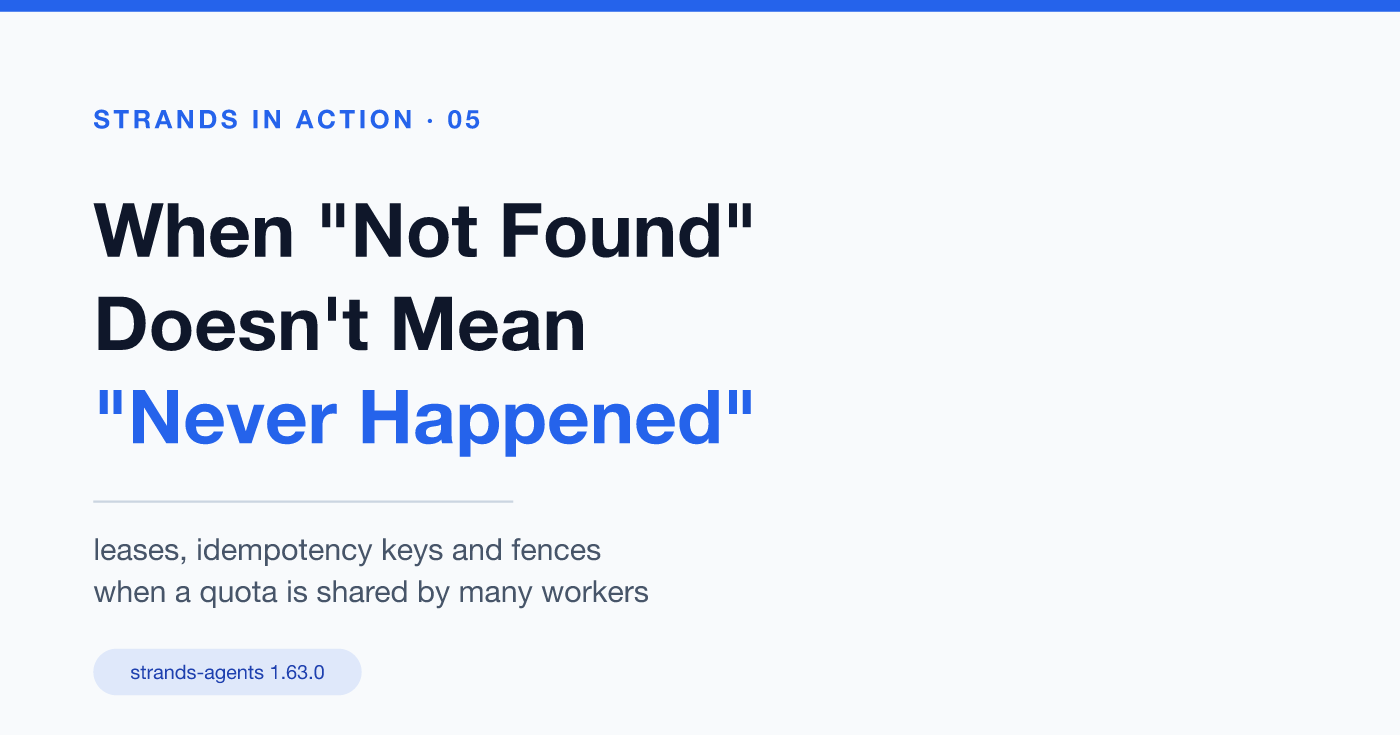
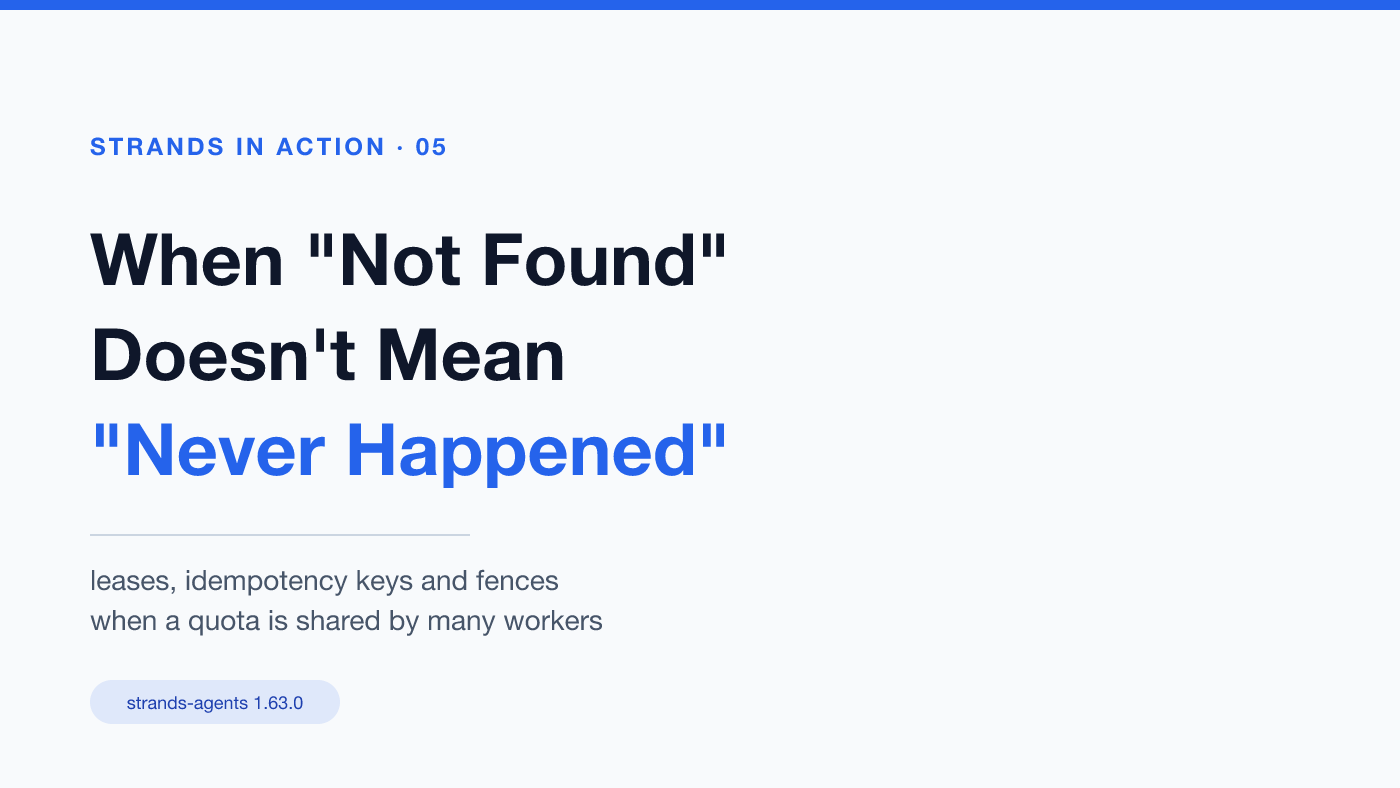
content(uc05): add Medium manual, Slack copy and 16:9 feature image
- reservations-fencing-medium-manual.md: 7-step manual, 4 subtitle options with verified character counts (136/131/131/69), 16:9 cover path, canonical checklist
- reservations-fencing-slack.md: standard + short versions with evidence citations
- cover-medium.svg / cover-medium.png: rebuilt at 1400x788 (16:9) instead of 1400x735; source SVG kept

diff --git a/writing-lab/distribution/reservations-fencing-medium-manual.md b/writing-lab/distribution/reservations-fencing-medium-manual.md
@@ -1,0 +1,111 @@
+# Medium 发布手册 · UC05 · When "Not Found" Doesn't Mean "Never Happened"
+
+> 系列：strands-in-action 第 5 篇 ｜ 状态：主站 / Builder Center / Dev.to 已上线（2026-11-09 21:30 窗口），Medium 待手动 Import
+> 日期：2026-11-10
+
+**线上地址**
+
+| 渠道 | 链接 |
+|---|---|
+| 主站（canonical） | https://xiongpin.dev/posts/reservations-fencing/ |
+| AWS Builder Center | https://builder.aws.com/content/3Ls8Su63RbuSKR3yys1j9t6US1p/when-not-found-doesnt-mean-never-happened |
+| Dev.to | https://dev.to/aws-builders/when-not-found-doesnt-mean-never-happened-2eie |
+| Medium | `<MEDIUM_URL>` — 发布后回填本行与 `reservations-fencing-slack.md` |
+
+Medium 只能手动操作，约 5 分钟。按下面 7 步走。
+
+---
+
+## 第 1 步：Import（从 canonical 导入）
+
+打开 <https://medium.com/p/import> → 粘贴 `https://xiongpin.dev/posts/reservations-fencing/` → Import。
+
+导入结果一定是一篇 draft，不会自动发布。Import 会带过来标题、正文、1 张正文图和 16 个代码块，**但 subtitle 永远是空的，必须手填**。
+
+---
+
+## 第 2 步：Title 与 Subtitle（本手册重点）
+
+**Title（导入后应已是这个，核对即可）**
+
+```text
+When "Not Found" Doesn't Mean "Never Happened"
+```
+
+**Subtitle：手填，从下面 4 个里选一个（字符数已逐条数过，全部 ≤ 140 上限）**
+
+| 选项 | 字符数 | 副标题 |
+|---|---|---|
+| **① 推荐** | **136** | `The janitor released capacity at 1.003s. The retry committed at 1.407s. The old attempt landed at 2.405s. Five runs, five double writes.` |
+| ② 讲语义 | 131 | `A lease expiry proves only that a worker stopped reporting. In five real-clock runs, "not found" turned into two writes every time.` |
+| ③ 讲修复 | 131 | `Splitting "expired" into "confirmed existing" and "outcome_unknown" stopped every duplicate write. Here are the runs that show why.` |
+| ④ 最紧凑 | 69 | `Five runs. Five duplicate writes. One missing state: outcome_unknown.` |
+
+**为什么推荐 ①**
+
+- **三个时间戳直接排出因果**：1.003s 释放容量 → 1.407s 重试提交 → 2.405s 旧 attempt 才落地。读者不用读正文就知道「查不到」为什么会变成两次写；这是全文最硬的一组实测数字。
+- **结尾给出次数**（five runs, five double writes），把反差坐实成可复现的结果，而不是一个假设的竞态。
+- **不重复标题原话**，也不含 `outcome_unknown` 这类内部术语，Medium 列表页读者无需前置知识。
+- 136 字符贴着 140 上限，移动端一般不截断；若你担心被截，改用 ④（69 字符）。
+
+② 把结论前置，适合想强调「lease 到底证明了什么」的读者，但没有具体时间线，冲击力弱一点。③ 直接剧透解法（`outcome_unknown`），会把「先看到失败、再找状态」的阅读张力抹掉；只在你想吸引已经踩过坑的工程师时用。④ 最安全、最不容易截断，但数字太干，少了那 2.4 秒的荒谬感。
+
+**操作**：在 Medium 编辑器里，标题下方灰色的 "Write a subtitle..." 处粘贴所选文本（切勿粘成正文段落，否则不会样式化为副标题）。
+
+---
+
+## 第 3 步：Byline 首行
+
+正文第一行（Import 一般不会自动加，需手写）：
+
+```text
+Originally published at https://xiongpin.dev/posts/reservations-fencing/ on 2026-11-09.
+```
+
+把 `https://xiongpin.dev/posts/reservations-fencing/` 选中做成超链接，指向自身。
+
+---
+
+## 第 4 步：封面图
+
+上传：`pinxiong.github.io/static/images/reservations-fencing/cover-medium.png`（**1400×788，16:9**，源 SVG 同目录 `cover-medium.svg`）。
+
+上传后在 Medium 的 "Change thumbnail" 里确认显示的是整张图、三行标题文字没被裁掉。
+
+> **注意**：BC 线上 2026-11-09 上传的是当时的 1400×735（1.90:1）版本，已在平台上正常显示、不会自动更新。本地 `cover-medium.png` 已于 2026-11-10 重做成 16:9；**Medium 用这个新文件即可，不必回 BC 重传**。
+
+---
+
+## 第 5 步：标签（5 个，与前两篇同口径）
+
+```text
+AI · Agents · AWS · Strands · Software Engineering
+```
+
+Medium 最多 5 个，按上面顺序填，前两个权重最高。
+
+---
+
+## 第 6 步：正文核对清单（逐项过）
+
+1. **正文图只有 1 张**：`race-timeline.png`（延迟提交竞态时间线，位于 "The retry that arrives too early" 一节）。这张图是全文唯一的配图，缺了就说明 Import 没抓全，回主站对应位置重新复制。别按 UC03/UC04 的习惯去找 6–7 张图，本篇确实只有一张。
+2. **16 个代码块**：Python 与终端输出块都要有等宽字体和灰底；被 Import 拍平成段落的，全选那段 → 工具栏 `</>` 重新设为 code block。特别检查 `SUMMARY trials=5 duplicate_writes_total=5 ...` 那几行，别被拆成多段。
+3. **状态机 ASCII 图**（`reserved ──expiry──▶ outcome_unknown`）：这是纯文本块，应保持等宽对齐，不能被转成普通段落。
+4. **引用行**：开头的 `> Verified on 2026-11-09 against strands-agents 1.63.0 ...` 应显示为引用样式（左侧竖线）。
+5. 全文搜一遍 `](` 和 `![`，确认没有 Markdown 残留符号（Import 偶尔漏转）。
+6. 结尾的系列预告（"the series now moves to orchestration"）和 article 01 链接必须保留，不要当成草稿尾巴删掉。
+
+---
+
+## 第 7 步：Advanced settings → Publish
+
+点右上 `Publish` 前，先开 `Advanced settings`：
+
+- [ ] **"This story was originally published elsewhere"** 勾上
+- [ ] Canonical 链接填 **`https://xiongpin.dev/posts/reservations-fencing/`**（带结尾斜杠，与上表完全一致）
+- [ ] 留空 canonical = 把 SEO 让给 Medium，停下先修
+
+然后 Publish。发布后做两件事：
+
+1. 打开线上文章，确认标题下方显示的是你选的 subtitle、封面是 16:9 那张、canonical 指回 xiongpin.dev；
+2. 把 Medium URL 回填到本文件顶部表格、`reservations-fencing-slack.md` 的 `<MEDIUM_URL>` 占位，以及 `strands-in-action/PIPELINE_STATE.md` 的 Medium 台账行。

diff --git a/writing-lab/distribution/reservations-fencing-slack.md b/writing-lab/distribution/reservations-fencing-slack.md
@@ -1,0 +1,51 @@
+# Slack 分享文案 · UC05 · When "Not Found" Doesn't Mean "Never Happened"（已发布）
+
+> 母版：https://xiongpin.dev/posts/reservations-fencing/
+> 主站 / BC / Dev.to 已回填；Medium 发布后回填 `<MEDIUM_URL>`。
+> 系列：strands-in-action · 第 5 篇。
+
+---
+
+## A. 标准版（推荐，发 AWS Slack 群）
+
+```text
+Hi everyone,
+
+I published a hands-on post on the Strands Agents SDK: *When "Not Found" Doesn't Mean "Never Happened"*.
+
+A lease expiry proves only that a worker stopped reporting. In five real-clock runs, a naive reconciler wrote the same ticket twice every time, and handed the capacity back while the effect already existed. The delayed-commit race is the part that surprised me: the janitor released capacity at 1.003s, the retry committed at 1.407s, and the old attempt, still alive, committed at 2.405s. A put-if-absent fence stopped every duplicate write but still released capacity early and burned a wasted retry. Keeping the reservation in outcome_unknown until the destination reported a terminal state gave zero duplicates, zero early releases and zero retries. Every number came out of a run against strands-agents 1.63.0, and the scripts are in the repo.
+
+Blog: https://xiongpin.dev/posts/reservations-fencing/
+AWS Builder Center: https://builder.aws.com/content/3Ls8Su63RbuSKR3yys1j9t6US1p/when-not-found-doesnt-mean-never-happened
+Dev.to: https://dev.to/aws-builders/when-not-found-doesnt-mean-never-happened-2eie
+Medium: <MEDIUM_URL>
+
+Happy to hear your feedback.
+```
+
+## B. 短版（4 行）
+
+```text
+Hi all,
+
+New post: *When "Not Found" Doesn't Mean "Never Happened"*. Five real-clock runs, five duplicate writes. A lease expiry tells you a worker stopped reporting, not that nothing happened; the fix is to hold the reservation in outcome_unknown until the destination answers.
+
+https://builder.aws.com/content/3Ls8Su63RbuSKR3yys1j9t6US1p/when-not-found-doesnt-mean-never-happened
+```
+
+---
+
+## 使用提示
+
+- A 版把主站与 Builder Center 放前两位，与 UC01–04 口径一致；只想发一个链接用 B 版。
+- Slack 语法：`*加粗*`；长链接可换成 `<URL|Read on AWS Builder Center>` 形式。
+- 这是第 5 篇，不是终篇，不要写 "the last post"；结尾预告的是多智能体编排，可以带一句 "next up is orchestration"。
+- 链接均为平台原生 URL，无 utm；Medium 若带 `?postPublishedType=initial` 查询串，去掉再发。
+- 数字出处（全部来自 `strands-in-action/usecases/05-reservations-fencing/evidence/`）：
+  - 5/5 重复写、容量误归还 —— `lease-crash-boundary.txt`，`SUMMARY trials=5 duplicate_writes_total=5 capacity_returned_while_effect_exists=5/5`
+  - 1.003s / 1.407s / 2.405s 时间线 —— `delayed-commit-race.txt`，naive 模式 `SUMMARY trials=5 duplicate_writes_total=5 early_capacity_release=5/5`
+  - fence 模式 0 重复但 5/5 提前释放 —— 同上，fenced 模式 `duplicate_writes_total=0 early_capacity_release=5/5`
+  - authoritative 0 / 0 / 0 —— 同上，`duplicate_writes_total=0 early_capacity_release=0/5 retry_started=0/5`
+  - 12 workers / 2 slots / 1.0s lease / 继承者等 1.002s —— `slot-contention.txt`
+  - SDK 侧：单实例串行 `ConcurrencyException`、同 `idempotency_token` 进程内去重、双实例各拿 453-token 预算 —— `concurrent-limits.txt`
+- 别把 `outcome_unknown` 写成 SDK 提供的状态：它是本篇实验里自己加进 reservation 状态机的，正文 "Two states, not one" 一节有说明。
